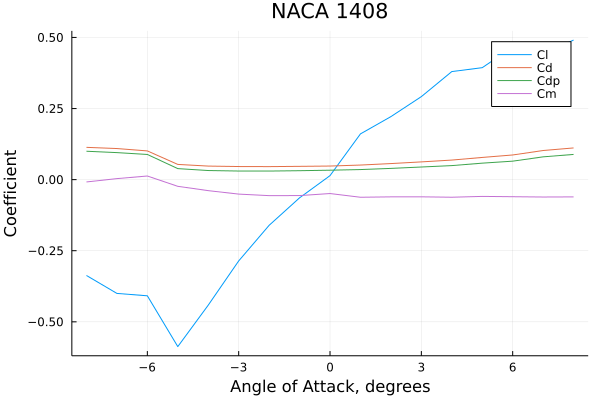
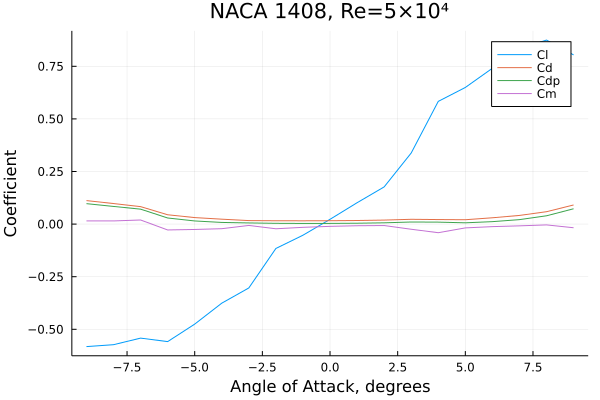
Adjusted plot labels
I've added information about Reynolds numbers to the plot labels.

diff --git a/Airfoil_Analysis.tex b/Airfoil_Analysis.tex
@@ -71,16 +71,12 @@ One interesting relationship to note in the vortex rings that this experiment fo
 
 \section{Glossary}
 \begin{itemize}
-	
-	\item \hypertarget{Camber}{Airfoil Camber} - The Camber of an airfoil is represented by the Camber Line, which runs halfway between its top and bottom surfaces. This line represents the curvature of an airfoil. An airfoil with positive camber is slightly convex on top and slightly concave on its bottom.
-	
-	\item \hypertarget{c}{Airfoil Chord, $c$} - An airfoil's Chord is the imaginary line running straight from the tip of an airfoil to its tail. The chord line is used to find an airfoil's \hyperlink{alpha}{Angle of Attack}.
-
-	\item \hypertarget{AP}{Airfoil Polar} - The Airfoil Polar is a plot showing the  \hyperlink{CL}{Lift} and  \hyperlink{CD}{Drag} coefficients corresponding with each \hyperlink{alpha}{Angle of Attack} for an airfoil. Examining the ratios of lift to drag is instrumental in choosing the optimal Angle of Attack.
-	
-	\item \hypertarget{Th}{Airfoil Thickness} - An airfoil's thickness can be measured in two different ways, either along its \hyperlink{c}{Chord Line} or along its \hyperlink{Camber}{Camber Line}. Thickness measured perpendicular to the Camber Line is also called the American Convention, and thickness measured perpendicular to the Chord Line is also called the British Convention.
 		
 	\item \hypertarget{alpha}{Angle of Attack, $\alpha$} - The angle of attack, $\alpha$ is the angle between the motion of oncoming fluid and the chord line of the wing. a positive $\alpha$ corresponds to a wing tilted upwards.
+	
+	\item \hypertarget{Camber}{Camber} - The Camber of an airfoil is represented by the Camber Line, which runs halfway between its top and bottom surfaces. This line represents the curvature of an airfoil. An airfoil with positive camber is slightly convex on top and slightly concave on its bottom.
+	
+	\item \hypertarget{c}{Chord, $c$} - An airfoil's Chord is the imaginary line running straight from the tip of an airfoil to its tail. The chord line is used to find an airfoil's \hyperlink{alpha}{Angle of Attack}.
 
 	\item \hypertarget{CD}{Drag Coefficient (2D), $c_{D}$} - The drag coefficient determines how much drag force opposing motion will be experienced. It is used in this way: 
 		\begin{equation} \label{eq:2}
@@ -113,6 +109,8 @@ One interesting relationship to note in the vortex rings that this experiment fo
         			M = q S e c_{M}
 	    	\end{aligned}
 		\end{equation}
+
+	\item \hypertarget{AP}{Polar} - The Airfoil Polar is a plot showing the  \hyperlink{CL}{Lift} and  \hyperlink{CD}{Drag} coefficients corresponding with each \hyperlink{alpha}{Angle of Attack} for an airfoil. Examining the ratios of lift to drag is instrumental in choosing the optimal Angle of Attack.
 	
 	\item \hypertarget{Re}{Reynolds Number, $Re$} - The Reynolds Number is a unit-less number for fluid flow described by the equation below. It can be used to predict patterns in the fluid's flow, using its flow speed $u$, characteristic length $L$, and kinetic viscosity $\nu$, or else by its density $\rho$, flow speed $u$, characteristic length $L$, and fluid density $\mu$.
 		\begin{equation} \label{eq:6}
@@ -123,6 +121,8 @@ One interesting relationship to note in the vortex rings that this experiment fo
 		\end{equation}
 	
 	\item \hypertarget{ST}{Stall} - Stall occurs when an airfoil's \hyperlink{alpha}{Angle of Attack} is too great in magnitude. When the angle of attack is too great, flow separation occurs, reducing rather than augmenting the airfoil's \hyperlink{CL}{Lift Coefficient} as the Angle of Attack increases.
+	
+	\item \hypertarget{Th}{Thickness} - An airfoil's thickness can be measured in two different ways, either along its \hyperlink{c}{Chord Line} or along its \hyperlink{Camber}{Camber Line}. Thickness measured perpendicular to the Camber Line is also called the American Convention, and thickness measured perpendicular to the Chord Line is also called the British Convention.
 		
 	\item \hypertarget{NACA}{4-Digit NACA Airfoil} - A wing shape developed by the National Advisory Committee for Aeronautics (NACA). The first digit is the maximum \hyperlink{Camber}{Camber} as a percentage of the \hyperlink{c}{Chord}. The second digit is the distance in tenths of the maximum Camber from the leading edge. the final two digits are the maximum wing thickness as a percentage of the Chord. Descriptions of other NACA numbers can also be found on this \href{https://en.wikipedia.org/wiki/NACA_airfoil}{Wikipedia Article}. 
 	
